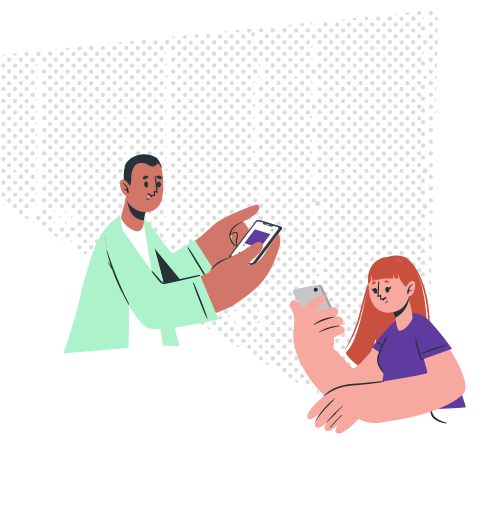
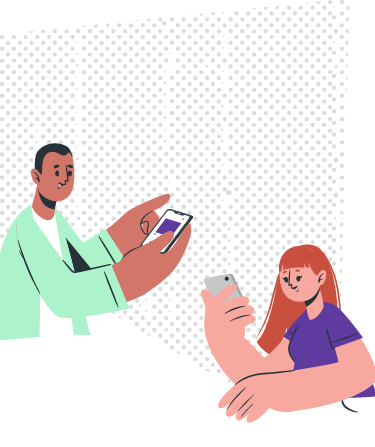
Added the cropped images and fixed font sizes

diff --git a/lib/modules/language/view/language_view.dart b/lib/modules/language/view/language_view.dart
@@ -22,87 +22,86 @@ class _LanguageScreenState extends State<LanguageScreen> {
     if (arguments != null) print("from_account ${arguments['fromAccount']}");
     return Scaffold(
       body: StoreConnector<AppState, _ViewModel>(
-          model: _ViewModel(),
-          builder: (context, snapshot) {
-            return Scaffold(
-              body: SafeArea(
-                child: SizedBox(
-                  height: SizeConfig.screenHeight,
-                  child: Stack(
-                    children: [
-                      Image.asset(
-                        ImagePathConstants.languageSelectionBackdrop,
-                        height: 496.toHeight,
-                        width: SizeConfig.screenWidth,
-                        fit: BoxFit.fill,
+        model: _ViewModel(),
+        builder: (context, snapshot) {
+          return Scaffold(
+            body: SafeArea(
+              child: SizedBox(
+                height: SizeConfig.screenHeight,
+                child: Stack(
+                  children: [
+                    Image.asset(
+                      ImagePathConstants.languageSelectionBackdrop,
+                      height: 496.toHeight,
+                      width: SizeConfig.screenWidth,
+                      fit: BoxFit.contain,
+                    ),
+                    Positioned(
+                      right: 38.toWidth,
+                      top: 53.toHeight,
+                      child: Text(
+                        "Choose\nyour Language",
+                        textAlign: TextAlign.end,
+                        style: CustomTheme.of(context)
+                            .textStyles
+                            .topTileTitle
+                            .copyWith(
+                                color:
+                                    CustomTheme.of(context).colors.primaryColor,
+                                fontSize: 30),
                       ),
-                      Positioned(
-                        right: 38.toWidth,
-                        top: 53.toHeight,
-                        child: Text(
-                          "Choose\nyour Language",
-                          textAlign: TextAlign.end,
-                          style: CustomTheme.of(context)
-                              .textStyles
-                              .topTileTitle
-                              .copyWith(
-                                  color: CustomTheme.of(context)
-                                      .colors
-                                      .primaryColor,
-                                  fontSize: 30),
-                        ),
-                      ),
-                      Positioned(
-                        left: 25.toWidth,
-                        top: 35.toHeight,
-                        child: GestureDetector(
-                          onTap: () => Navigator.pop(context),
-                          child: Container(
-                            color:
-                                CustomTheme.of(context).colors.backgroundColor,
-                            padding: const EdgeInsets.symmetric(
-                                horizontal: 12, vertical: 5),
-                            child: Row(
-                              mainAxisAlignment: MainAxisAlignment.spaceBetween,
-                              children: [
-                                Icon(
-                                  Icons.arrow_back_ios,
-                                  color: CustomTheme.of(context)
-                                      .colors
-                                      .primaryColor,
-                                ),
-                                Text(
-                                  'Back',
-                                  style: CustomTheme.of(context)
-                                      .textStyles
-                                      .sectionHeading1,
-                                ),
-                              ],
-                            ),
+                    ),
+                    Positioned(
+                      left: 25.toWidth,
+                      top: 35.toHeight,
+                      child: GestureDetector(
+                        onTap: () => Navigator.pop(context),
+                        child: Container(
+                          color: CustomTheme.of(context).colors.backgroundColor,
+                          padding: const EdgeInsets.symmetric(
+                              horizontal: 12, vertical: 5),
+                          child: Row(
+                            mainAxisAlignment: MainAxisAlignment.spaceBetween,
+                            children: [
+                              Icon(
+                                Icons.arrow_back_ios,
+                                color:
+                                    CustomTheme.of(context).colors.primaryColor,
+                              ),
+                              Text(
+                                'Back',
+                                style: CustomTheme.of(context)
+                                    .textStyles
+                                    .sectionHeading1,
+                              ),
+                            ],
                           ),
                         ),
                       ),
-                      Align(
-                        alignment: Alignment.topCenter,
-                        child: AnimatedPadding(
-                          duration: const Duration(milliseconds: 100),
-                          padding: EdgeInsets.only(
-                            top: 476.toHeight - 48.toHeight - bottomInsets,
-                          ),
-                          child: DropDown(
-                            fromAccountAction:
-                                (){snapshot.navigateToPhoneNumberPage(
-                                    arguments != null ? arguments['fromAccount']
-                                        ?? false : false);},
-                          ),
+                    ),
+                    Align(
+                      alignment: Alignment.topCenter,
+                      child: AnimatedPadding(
+                        duration: const Duration(milliseconds: 100),
+                        padding: EdgeInsets.only(
+                          top: 476.toHeight - 48.toHeight - bottomInsets,
+                        ),
+                        child: DropDown(
+                          fromAccountAction: () {
+                            snapshot.navigateToPhoneNumberPage(arguments != null
+                                ? arguments['fromAccount'] ?? false
+                                : false);
+                          },
                         ),
                       ),
-                    ],
-                  ),
+                    ),
+                  ],
                 ),
               ),
-            );
-          },),
+            ),
+          );
+        },
+      ),
     );
   }
 }
@@ -185,7 +184,7 @@ class _DropDownState extends State<DropDown> {
       return Container(
         width: 351.toWidth,
         height: 426.toHeight,
-        padding: EdgeInsets.symmetric(horizontal: 5, vertical: 5),
+        padding: const EdgeInsets.symmetric(horizontal: 5, vertical: 5),
         decoration: BoxDecoration(
           color: CustomTheme.of(context).colors.backgroundColor,
           borderRadius: BorderRadius.circular(4),
@@ -270,6 +269,7 @@ class _DropDownState extends State<DropDown> {
         width: 299.toWidth,
         height: 48.toHeight,
         decoration: BoxDecoration(
+          color: CustomTheme.of(context).colors.backgroundColor,
           borderRadius: BorderRadius.circular(4),
           border: Border.all(
               width: 2, color: CustomTheme.of(context).colors.primaryColor),

diff --git a/lib/modules/About/view/about_view.dart b/lib/modules/About/view/about_view.dart
@@ -1,3 +1,4 @@
+import 'package:eSamudaay/themes/custom_theme.dart';
 import 'package:eSamudaay/utilities/colors.dart';
 import 'package:flutter/material.dart';
 
@@ -36,7 +37,7 @@ class _AboutViewState extends State<AboutView> {
                   height: 200,
                   width: 200,
                 ),
-                SizedBox(
+                const SizedBox(
                   height: 50,
                 ),
                 Text(
@@ -50,11 +51,48 @@ class _AboutViewState extends State<AboutView> {
                   ),
                   textAlign: TextAlign.center,
                 ),
+                const SizedBox(
+                  height: 20,
+                ),
+                GestureDetector(
+                  onTap: () {
+                    showCreditDialog(context);
+                  },
+                  child: Center(
+                    child: Text(
+                      'Credits',
+                      style: CustomTheme.of(context)
+                          .textStyles
+                          .sectionHeading1Regular
+                          .copyWith(
+                              decoration: TextDecoration.underline,
+                              color:
+                                  CustomTheme.of(context).colors.primaryColor),
+                    ),
+                  ),
+                ),
               ],
             ),
           ),
         ),
       ),
+    );
+  }
+
+  void showCreditDialog(BuildContext context) {
+    showDialog(
+      context: context,
+      builder: (context) {
+        return AlertDialog(
+          title: Text('Credits'),
+          content: Column(
+            mainAxisSize: MainAxisSize.min,
+            children: [
+              Text('Illustrations designed by Freepik'),
+            ],
+          ),
+        );
+      },
     );
   }
 }

diff --git a/lib/modules/otp/view/otp_view.dart b/lib/modules/otp/view/otp_view.dart
@@ -52,6 +52,7 @@ class _OtpScreenState extends State<OtpScreen> {
   @override
   Widget build(BuildContext context) {
     return Scaffold(
+      resizeToAvoidBottomPadding: false,
       body: StoreConnector<AppState, _ViewModel>(
         onInit: (store) {
           FocusScope.of(context).requestFocus(FocusNode());
@@ -130,7 +131,7 @@ class _OtpScreenState extends State<OtpScreen> {
                               height: 5,
                             ),
                             SizedBox(
-                              height: 42.toHeight,
+                              height: 45.toHeight,
                               child: Container(
                                 padding: EdgeInsets.only(
                                     bottom: 8, left: 10, right: 10, top: 8),
@@ -165,7 +166,7 @@ class _OtpScreenState extends State<OtpScreen> {
                                         fieldStyle: FieldStyle.underline,
                                         style: CustomTheme.of(context)
                                             .textStyles
-                                            .sectionHeading1,
+                                            .topTileTitle,
                                         onChanged: (pin) {
                                           snapshot.updateOtpEnterStatus(
                                               pin.length == 6);

diff --git a/lib/modules/login/views/login_View.dart b/lib/modules/login/views/login_View.dart
@@ -75,6 +75,7 @@ class _LoginViewState extends State<LoginView> {
   @override
   Widget build(BuildContext context) {
     return Scaffold(
+      resizeToAvoidBottomPadding: false,
       body: StoreConnector<AppState, _ViewModel>(
         model: _ViewModel(),
         builder: (context, snapshot) {
@@ -97,7 +98,7 @@ class _LoginViewState extends State<LoginView> {
                         ImagePathConstants.signupLoginBackdrop,
                         height: 667.toHeight,
                         width: SizeConfig.screenWidth,
-                        fit: BoxFit.cover,
+                        fit: BoxFit.contain,
                       ),
                     ),
                     Positioned(
@@ -130,7 +131,7 @@ class _LoginViewState extends State<LoginView> {
                     ),
                     //Column(children: buildColumnChildren(snapshot, context),),
                     Positioned(
-                      top: 241.toHeight,
+                      top: 200.toHeight,
                       left: 12.toWidth,
                       child: Container(
                         width: 351.toWidth,

diff --git a/lib/main.dart b/lib/main.dart
@@ -233,7 +233,7 @@ class _SplashScreenState extends State<SplashScreen>
     SharedPreferences prefs = await SharedPreferences.getInstance();
     bool firstTime = prefs.getBool('first_time');
 
-    var _duration = new Duration(seconds: 3);
+    var _duration = new Duration(seconds: 2);
 
     if (firstTime != null && !firstTime) {
       // Not first time
@@ -248,7 +248,7 @@ class _SplashScreenState extends State<SplashScreen>
   @override
   void initState() {
     _controller = AnimationController(
-        vsync: this, duration: const Duration(milliseconds: 300));
+        vsync: this, duration: const Duration(milliseconds: 1000));
     _animation = Tween<double>(begin: 0.0, end: 1.0).animate(CurvedAnimation(
         parent: _controller, curve: Curves.linear, reverseCurve: Curves.linear))
       ..addListener(() {
